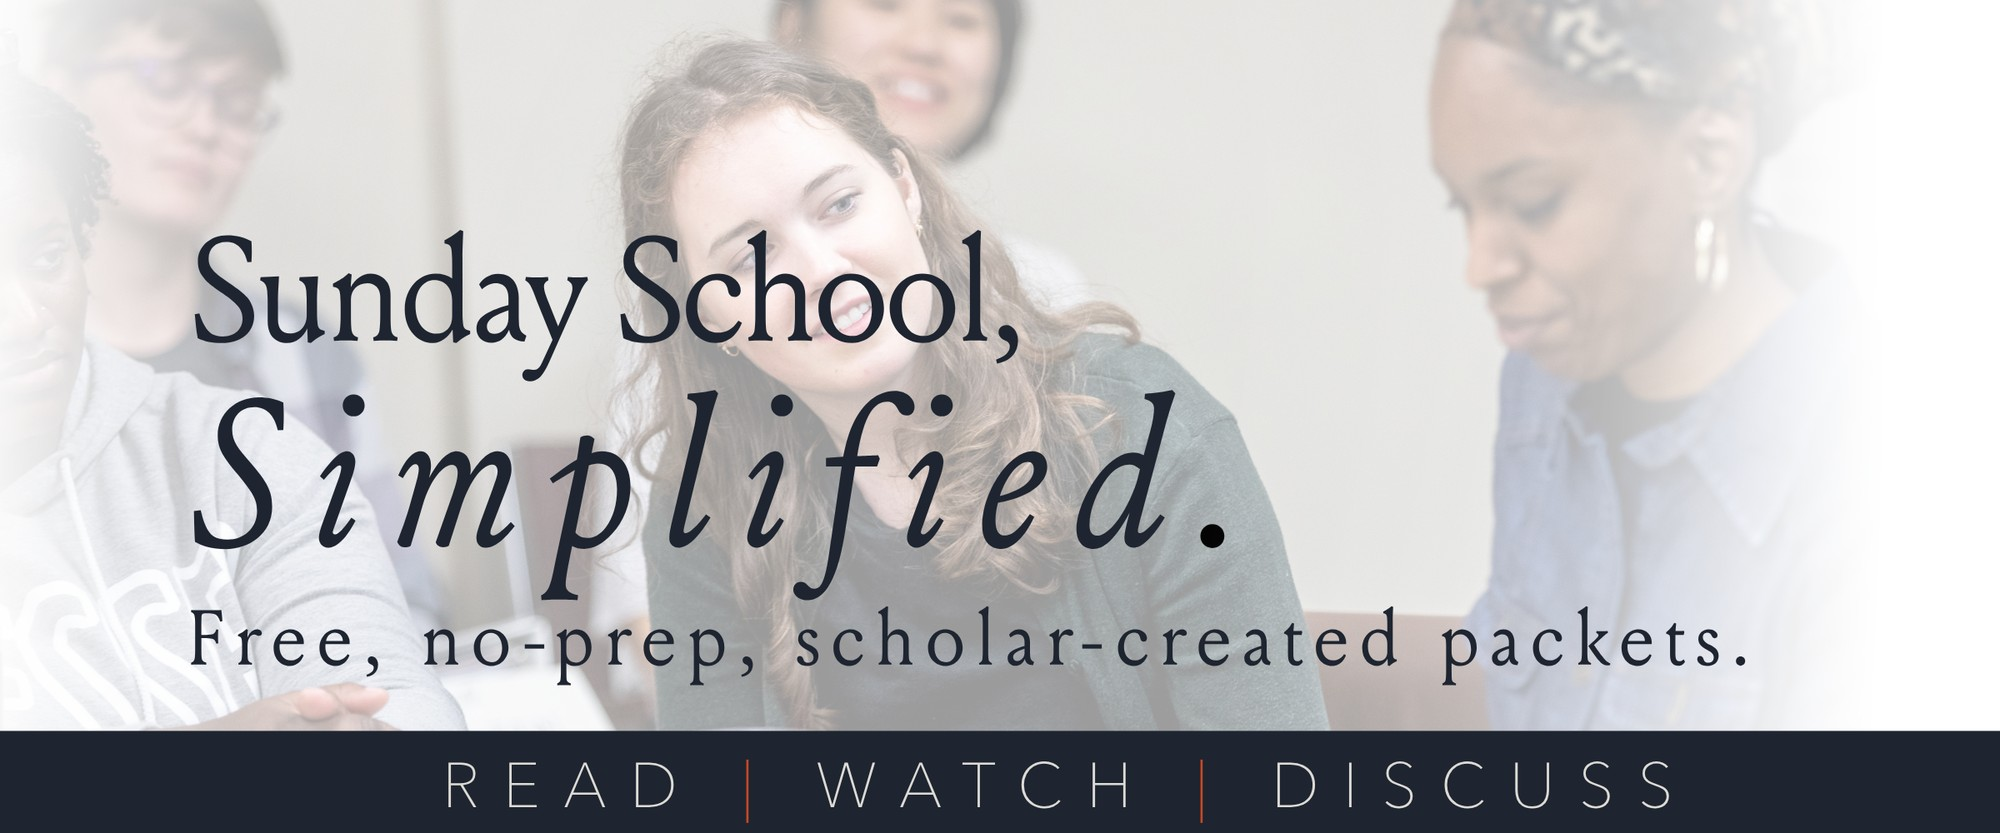
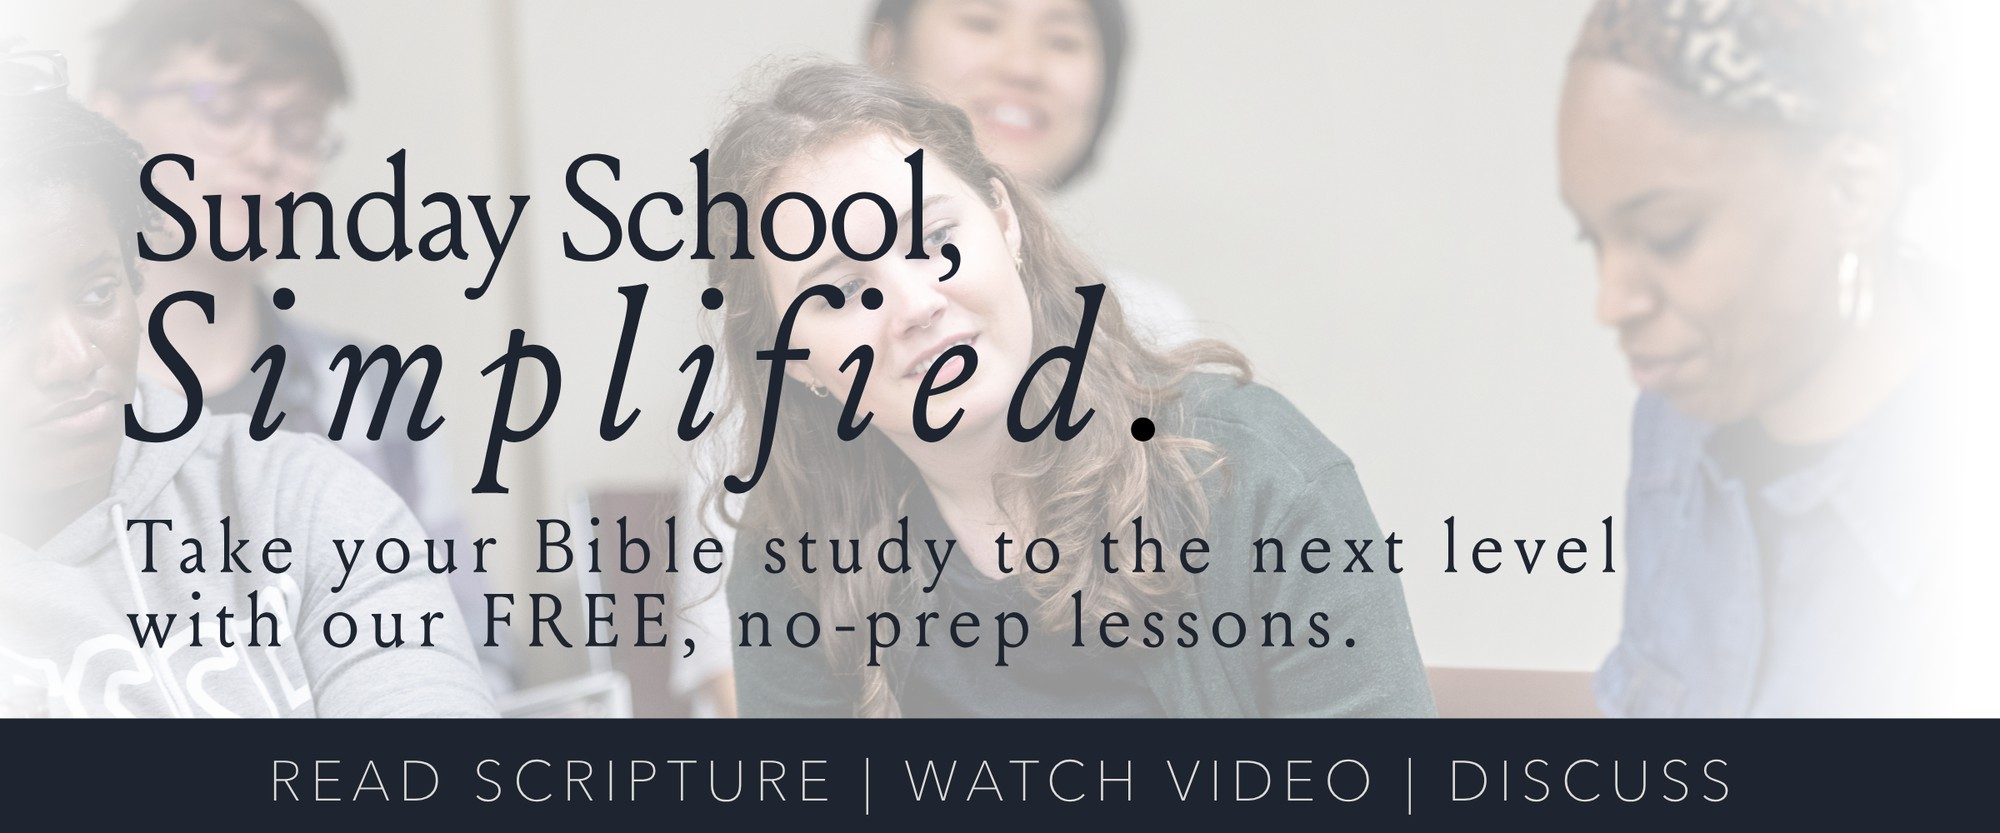
Update hero + add landing 'Let's get started' intro; README
sss-hero.jpg re-exported (new subtitle + READ SCRIPTURE|WATCH VIDEO|DISCUSS);
assets/sss-landing-intro.png = Canva page 2 register-steps band for the
landing page. Landing tiles get Register + Learn-more pop-out.

diff --git a/README.md b/README.md
@@ -580,27 +580,34 @@ from `/customer-portal/my-courses`: each course card is
   Aug 2026, Emily's final direction).** The top two sections are **Emily's own Canva artwork** (design
   `DAHRnlJvmA4`, "Sunday School Simplified Landing Page", **2 pages, each 2400×1000**), baked images she
   controls end-to-end:
-    1. **Hero** = page 1: "Sunday School, / *Simplified.*" over a discussion photo behind a white wash,
-       "Free, no-prep, scholar-created packets.", then a navy **READ | WATCH | DISCUSS** bar. Hosted at
-       `assets/sss-hero.jpg` (2000px progressive JPEG, ~187 KB). Displayed full-width with `border-radius:26px 26px 0 0`.
-    2. **"Start with a packet." intro** = page 2: a woodcut pointing-hand + heading + copy + a baked
-       "Already registered? Log in to pick up where you left off." line, on white. Hosted at
-       `assets/sss-intro.png` (2000px PNG to keep the engraving crisp, ~288 KB). Since the "Log in" text
-       is baked in, a **transparent `<a>` hotspot** (~left 58.5% / top 79% / w 8.5% / h 7%) is positioned
-       over it → `/customer-portal/account`. (Nudge those % if the art is re-exported.)
+    1. **Hero** = Canva page 1: "Sunday School, / *Simplified.*" over a discussion photo behind a white
+       wash, "Take your Bible study to the next level with our FREE, no-prep lessons.", then a navy
+       **READ SCRIPTURE | WATCH VIDEO | DISCUSS** bar. Hosted at `assets/sss-hero.jpg` (2000px progressive
+       JPEG, ~210 KB). Displayed full-width with `border-radius:26px 26px 0 0`. Shared by both surfaces.
+    2. **Intro band — two variants, one per surface** (both Canva page 2, on white, with the woodcut
+       pointing-hand; "Log in / LOG IN" text is baked in, so a **transparent `<a>` hotspot** overlays it):
+       - **Landing** = the current Canva page 2 "**Let's get started.**" — 3 register steps (1 Register for
+         your FREE packet(s) · 2 Check your inbox · 3 Open packet — SIX lessons each) + "Already registered?
+         **LOG IN**". Hosted at `assets/sss-landing-intro.png` (2000px PNG, ~355 KB). Hotspot ≈ left 52% /
+         top 91% / w 9% / h 6.5% → `/customer-portal/account`.
+       - **Portal** = the earlier "**Start with a packet.**" band, hosted at `assets/sss-intro.png` (~288 KB;
+         hotspot ≈ left 58.5% / top 79%). Still valid for logged-in My Lessons.
+       (Canva design now has **3 pages**; page 3 is not used yet. Re-measure hotspot % whenever the art is
+       re-exported.)
   Both exported via the Canva connector (`export-design` PNG, per-page) → verified (PNG signature + full
   PIL decode) → optimized locally → pushed; never the Dropbox mount.
   **The packet tiles BELOW the intro are live HTML** (built in the Webflow embed, not this repo): a white
   card, cover on a tint wash (blue `#f0f8ff` + navy left rule for BBS; butter `#fff7d2` + gold rule for
-  Women), then eyebrow / title / desc / two pill buttons. **Fonts (Emily's pick): titles = "Louize"
-  (serif); all other tile text = "Avenir Next Arabic Light".** Both are COMMERCIAL fonts not on Google —
-  they must be added to the Webflow project (Louize self-hosted webfont files under her license; Avenir
-  Next Arabic via Adobe Fonts or upload). Mockups fall back to Palatino/Georgia (serif) + a light system
-  sans. (Superseded and left unused in the repo: `assets/sss-hero-banner.jpg` and `assets/sss-hero-photo.jpg`,
-  the earlier baked-banner and live-text-over-photo hero attempts.)
-  **Landing vs portal differ only in the tiles:** portal = `foxy-logic-transaction-includes` gating +
-  "Open the flipbook" / "Download PDF"; landing = ungated + "Register / Get this packet" → the
-  `category=SSS` Foxy checkout URLs. Gates:
+  Women), then eyebrow / title / desc / **two pill buttons**. **Fonts (Emily's pick): titles = "Louize"
+  (serif); all other text = "Avenir Next Arabic Light".** Both are COMMERCIAL fonts not on Google — they
+  must be added to the Webflow project (Louize self-hosted webfont files under her license; Avenir Next
+  Arabic via Adobe Fonts or upload). Mockups fall back to Palatino/Georgia (serif) + a light system sans.
+  (Superseded, left unused: `assets/sss-hero-banner.jpg`, `assets/sss-hero-photo.jpg` — earlier hero attempts.)
+  **Landing vs portal differ in the tiles:** **landing** = ungated, two buttons — **"Register for free →"**
+  (→ `category=SSS` Foxy checkout) + **"Learn more"** which opens a **self-contained JS pop-out modal**
+  (`.sss-modal`; scrim/×/Esc close, `document.documentElement.overflow` locked) listing the packet's six
+  lessons + a Register CTA — works inside a Webflow HTML Embed (inline `<script>` runs there). **Portal** =
+  `foxy-logic-transaction-includes` gating + "Open the flipbook" / "Download PDF". Gates:
   `<div foxy-logic-transaction-includes="SSS-BEYONDBUMPER">…</div>` and `SSS-GOSPELWOMEN`; gate value =
   Foxy product `code` (= Airtable "Course Code" = the `code`/`h:course_code` in the checkout URL).
   "My Lessons" added to the shared portal nav. The embed lives in **Webflow only** (not this repo) — if
